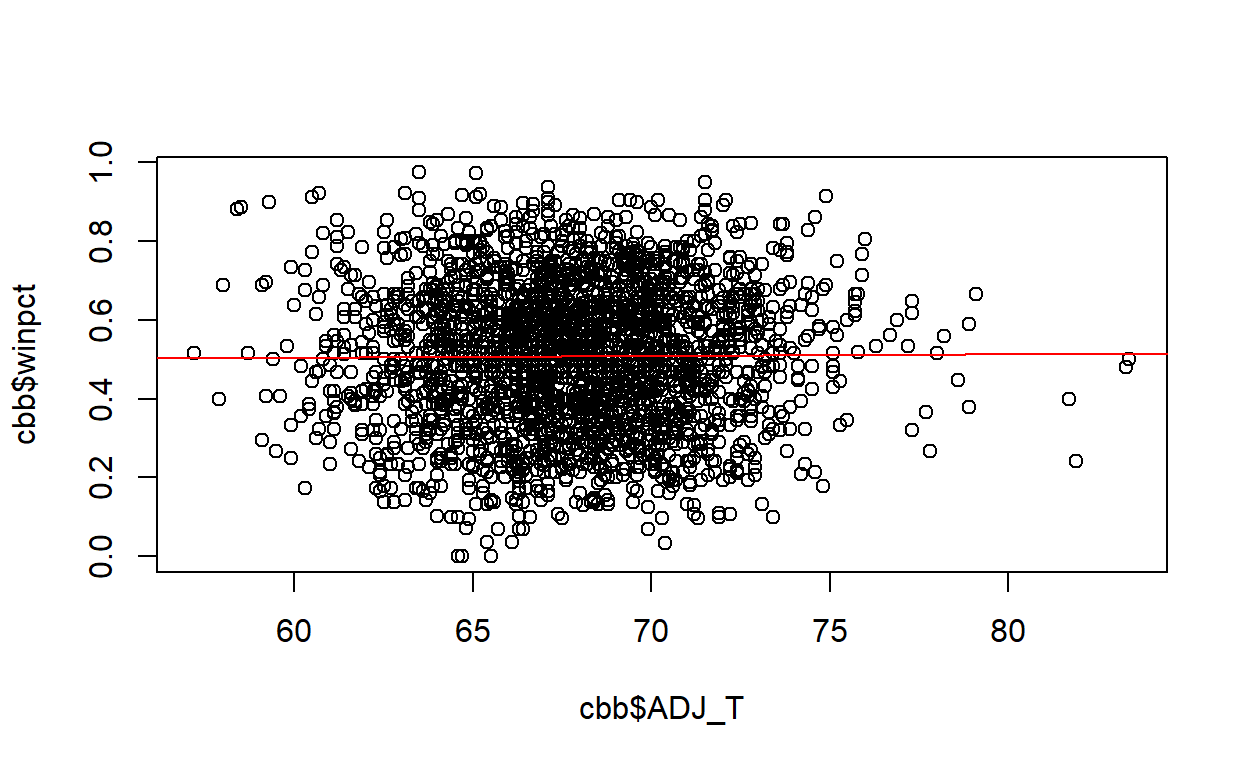
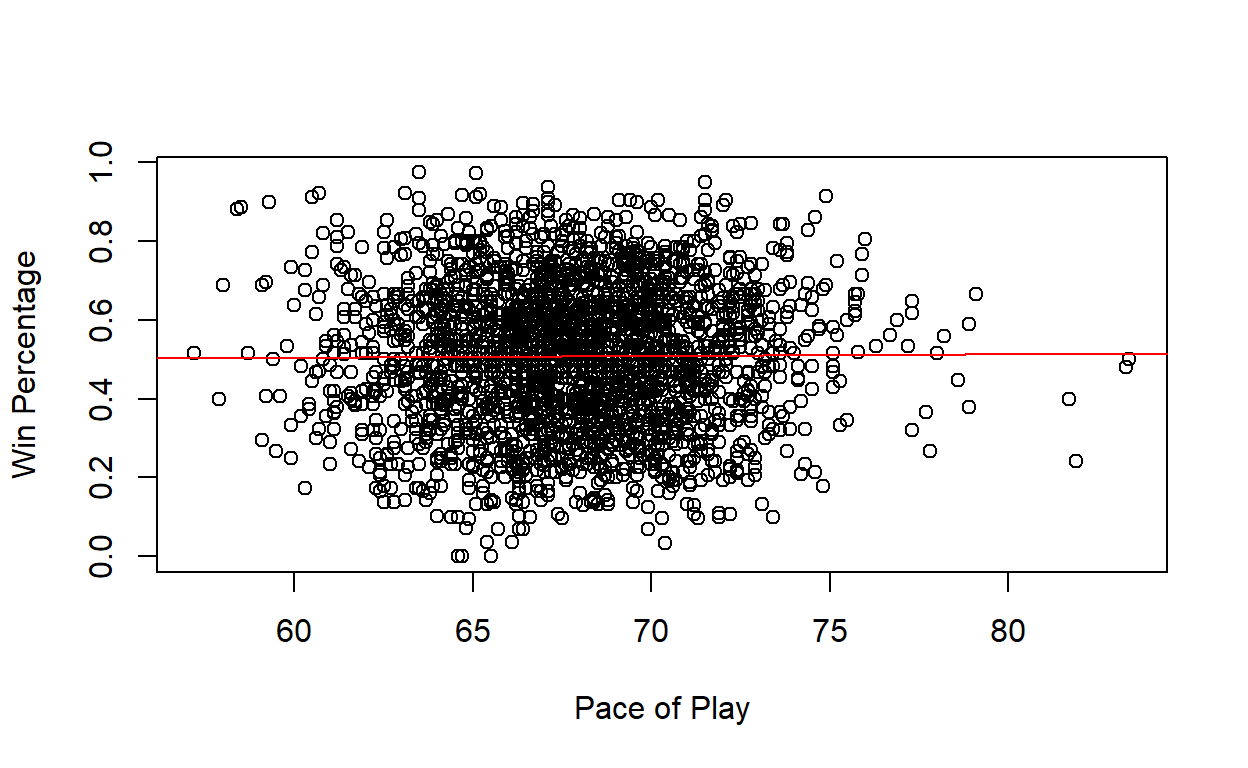
Milestone 4

Changed region(s): [[0.0, 0.3125, 0.0312, 0.625], [0.4375, 0.9062, 0.625, 0.9375]]

diff --git a/index.html b/index.html
@@ -1580,13 +1580,13 @@ Residual standard error: 0.1798 on 2453 degrees of freedom
 Multiple R-squared:  5.798e-05, Adjusted R-squared:  -0.0003497 
 F-statistic: 0.1422 on 1 and 2453 DF,  p-value: 0.7061</code></pre>
 <div class="sourceCode">
-<pre class="sourceCode r"><code class="sourceCode r"><span><span class='fu'><a href='https://rdrr.io/r/graphics/plot.default.html'>plot</a></span><span class='op'>(</span><span class='va'>cbb</span><span class='op'>$</span><span class='va'>ADJ_T</span>, <span class='va'>cbb</span><span class='op'>$</span><span class='va'>winpct</span><span class='op'>)</span></span>
+<pre class="sourceCode r"><code class="sourceCode r"><span><span class='fu'><a href='https://rdrr.io/r/graphics/plot.default.html'>plot</a></span><span class='op'>(</span><span class='va'>cbb</span><span class='op'>$</span><span class='va'>ADJ_T</span>, <span class='va'>cbb</span><span class='op'>$</span><span class='va'>winpct</span>, xlab <span class='op'>=</span> <span class='st'>"Pace of Play"</span>, ylab <span class='op'>=</span> <span class='st'>"Win Percentage"</span><span class='op'>)</span></span>
 <span><span class='fu'><a href='https://rdrr.io/r/graphics/abline.html'>abline</a></span><span class='op'>(</span><span class='va'>hypolm</span>, col <span class='op'>=</span> <span class='st'>"red"</span><span class='op'>)</span></span></code></pre>
 </div>
 <p><img src="index_files/figure-html5/unnamed-chunk-3-1.png" width="624" /></p>
 </div>
-<p>##Hypothesis Anaylsis:
-My hypothesis that a faster pace of play, or larger adjusted tempo, would lead to more wins, or a higher winning percentage was proven true as the correlation between win percentage and adjusted tempo was positive. However, it had very little impact and is not strongly correlated at all, meaning that it is not statistically significant. I will continue to further explore the impact of pace of play in college basketball and see if has any correlation with other variables in the data set.</p>
+<h2 id="hypothesis-anaylsis">Hypothesis Anaylsis:</h2>
+<p>My hypothesis that a faster pace of play, or larger adjusted tempo, would lead to more wins, or a higher winning percentage was proven true as the correlation between win percentage and adjusted tempo was positive. However, it had very little impact and is not strongly correlated at all, meaning that it is not statistically significant. I will continue to further explore the impact of pace of play in college basketball and see if has any correlation with other variables in the data set.</p>
 <div class="sourceCode" id="cb3"><pre class="sourceCode r distill-force-highlighting-css"><code class="sourceCode r"></code></pre></div>
 <!--radix_placeholder_article_footer-->
 <!--/radix_placeholder_article_footer-->
